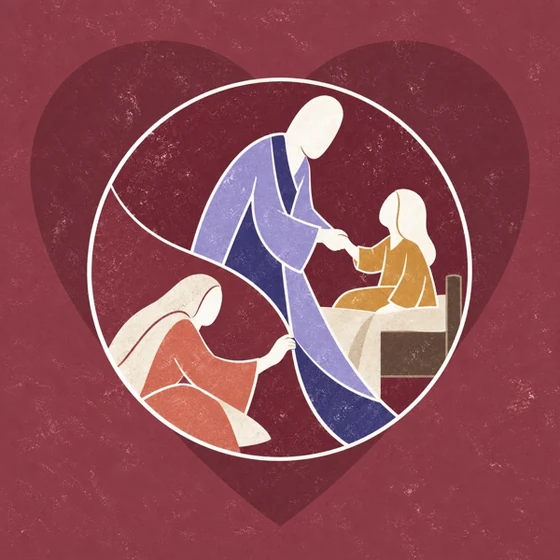
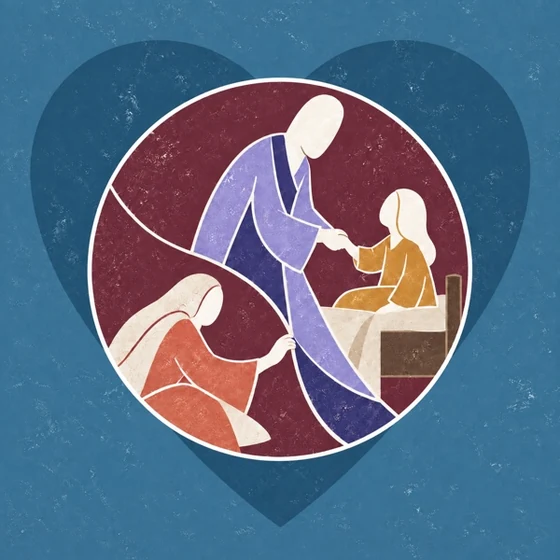
Tag all 50 C2C Full stories, add cover art for 5 stories, and add a "has story image" filter
Story sets: reorder C2C Full next to Creation to Christ in the filter grid, and
tag all 50 stories from the spreadsheet's "Stories in Order" tab against it
(was only 14). Synced three renames/merges from that same spreadsheet that
hadn't reached the app data yet: The Passover absorbed Crossing the Red Sea,
The Holy Spirit became The Holy Spirit + Ascension (extended to cover the
actual ascension verses), and Satan Bound absorbed The 1,000 Year Reign.

Cover art: new flat-illustration covers for The Samaritan Woman, Zacchaeus,
The Widow's Offering, and a revised Jairus' Daughter and the Bleeding Woman,
replacing older art. Added Satan's Rebellion as a new story (id B100, a
composite of Isaiah 14, Ezekiel 28, Luke 10:18 and Revelation 12:7-9, with
its own cover) since C2C Full otherwise never explains where the snake in
Genesis 3 came from -- still pending Todd's review.

Filter: added a "Has story image" toggle next to "Show tags on stories" in
the Tags drawer, filtering to only stories with cover art.

diff --git a/CLAUDE.md b/CLAUDE.md
@@ -27,7 +27,7 @@ npm run serve      # preview at localhost:3000
 |---|---|
 | `build-site.mjs` | The pitch page. Content, CSS and markup all live here, and it owns the shared CSS both pages use. **Edit this, never `dist/index.html`.** |
 | `build-stories.mjs` | The `/stories` library page: book groupings, its own CSS block, and all the browse/filter/edit behaviour. It is handed the shared CSS and nav by `build-site.mjs` so the two pages cannot drift on palette or typography. |
-| `data/stories.json` | Every story: book, reference, parallel references, story sets, tags. **Originally generated from `Misc/Story-Sets.xlsx` (the "Master List" tab)**, but no script that rebuilds it from the spreadsheet is checked into this repo, so it is maintained by hand now. If a generator ever gets written, sync the "Sermon on the Mount" and "C2C Full" story sets (see below) into the spreadsheet first, or a regenerate will silently drop them. |
+| `data/stories.json` | Every story: book, reference, parallel references, story sets, tags. **Originally generated from `Misc/Story-Sets.xlsx` (the "Master List" tab)**, but no script that rebuilds it from the spreadsheet is checked into this repo, so it is maintained by hand now. If a generator ever gets written, sync the "Sermon on the Mount" and "C2C Full" story sets, the one hand-added story below, and the three renamed/merged stories (see below), into the spreadsheet first, or a regenerate will silently drop or split them. One story, **Satan's Rebellion** (id `B100`, in the "C2C Full" set only), has no Master List row at all -- it is Brett's own composite of Isaiah 14:12-15, Ezekiel 28:12-19, Luke 10:18 and Revelation 12:7-9, added because C2C Full otherwise never explains where the snake in Genesis 3 came from. Filed under `b: "Revelation"` (the only one of the four texts that is an actual narrated event, so it is the least-misleading single home for it) with the other three as `par`, even though its narrative POSITION is meant to sit right before The First Sin -- that position comes from where it sits in this file's own array (read by `BASE_IDX`) and in `SET_ORDER`'s `'C2C Full'` list, both independent of `b`, so Grid/List order it correctly while Books view correctly files it under Revelation instead. As of when this was added, Brett had not yet reviewed the story with Todd -- worth confirming it is still wanted before trusting it too far. |
 | `data/story-text.json` | The 13 English story texts, so search can match story bodies. **Generated by `npm run story-text` from `C2C Stories - Original/`, which is outside this repo.** Cloudflare only checks out this repo, so the build must read the committed JSON, never the markdown. |
 | `gen-story-text.mjs` | Regenerates the file above. Run it locally and commit the result. |
 | `data/languages.json` | The 40 languages: name, native speakers, country, ISO code, `w1040` (10/40 Window), `sr` (StoryRunners covers it, retained but currently unused) |
@@ -207,14 +207,27 @@ which is why the group expand/collapse affordance is `.gtog`. Check a new class 
 `CSS` string in `build-site.mjs` before using it. Note too that `.fbtn` sets `display`, so it
 needs its own `[hidden]` rule to stay hidden.
 
-`data/stories.json`'s `sets` array holds ten story sets. Two are hand-added rather than
-sourced from a spreadsheet tab: **Sermon on the Mount** (the 18 stories already flagged
-`som: true`, now also a real filterable set rather than only a visual badge) and **C2C Full**
-(the 13 stories in Creation to Christ, meant to grow past 40 as more are added by hand — the
-existing Creation to Christ set is left alone on those 13, so a story can carry both). Icons
-for both live at `assets/story-set-icons/sermon-on-the-mount.webp` and
-`assets/story-set-icons/c2c-full.webp`, wired into `SET_ICON` in `build-stories.mjs` next to
-the rest.
+`data/stories.json`'s `sets` array holds ten story sets, ordered to match the Story Sets
+filter grid (two columns, filled row by row) -- **C2C Full** sits second, right after
+**Creation to Christ**, deliberately, so the two related sets land on the same row. Two sets
+are hand-added rather than sourced from a spreadsheet tab: **Sermon on the Mount** (the 18
+stories already flagged `som: true`, now also a real filterable set rather than only a visual
+badge) and **C2C Full** itself (started as the same 13 stories as Creation to Christ — that
+set is left alone on those 13, so a story can carry both — and is tracked separately by hand
+against the "Stories in Order" tab's own `C2C Full?` column, currently 50 stories; expect this
+count to keep moving as Brett and Todd work through it). Icons for both live at
+`assets/story-set-icons/sermon-on-the-mount.webp` and `assets/story-set-icons/c2c-full.webp`,
+wired into `SET_ICON` in `build-stories.mjs` next to the rest.
+
+Three stories got renamed/merged by hand to sync with decisions Brett already made in that
+spreadsheet tab, not from anything visible in the app's own data: **The Passover** (`B19`)
+absorbed **Crossing the Red Sea** (`B20`, deleted, its own set memberships and theme tags
+folded into B19) to become "The Passover + Escape Through the Sea", `12:1-30, 13:17–14:31`;
+**The Holy Spirit** (`R4`) became "The Holy Spirit + Ascension", extended to `1:4-11` so it
+actually covers the ascension (Acts 1:9-11), not just the promise of it; and **Satan Bound**
+(`T5`) absorbed **The 1,000 Year Reign** (`T6`, deleted) to become "The 1,000 Year Reign +
+Satan Crushed", extended to `20:1-10`. If the spreadsheet ever regains a real generator script,
+these three merges need to happen on that side too, or a regenerate will split them back apart.
 
 The controls are three labelled groups: search, filter, view. The result count rides on the
 SEARCH eyebrow in parentheses rather than rewriting the library total underneath the heading,
@@ -240,6 +253,17 @@ and in the book columns it cost enough width to push the set icons onto a second
 `showingTags()` is the only thing that decides, `#view` carries the `showtags` class, and
 filtering by a tag forces the rows open regardless, since hiding what you are filtering on
 would be perverse.
+
+A second switch, **Has story image**, sits on the same line as Show tags on stories (`.swrowset`
+lays the two out in a row, wrapping on a narrow drawer) but behaves differently: it is a real
+filter (`state.hasImg`, checked in `match()` against `D.art[key(s)]`), not a display toggle, so
+it counts toward `filtering()`/`anyFilter()` and rides on the Tags button's own badge count
+alongside any selected tags (`tagN = state.tags.size + (state.hasImg ? 1 : 0)`, since it isn't a
+`Set` the generic `badge()` helper can drive). "Clear tags" and "Clear filters" both reset it too.
+Its icon (`assets/icons/image.svg`) skips the tag icon's solid-fill-when-checked trick — scoped
+to `.tagwrap` now for exactly that reason — since filling a picture-frame glyph solid teal
+reads as a broken icon rather than an active one; it just recolors on check like every other
+outline icon in the controls.
 
 The list view is one row of markup laid out two ways: a six column table on desktop (the
 image column is deliberately unlabelled), and below 860px the same compact card as the other
